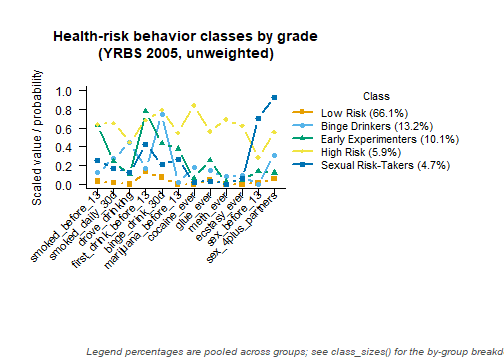
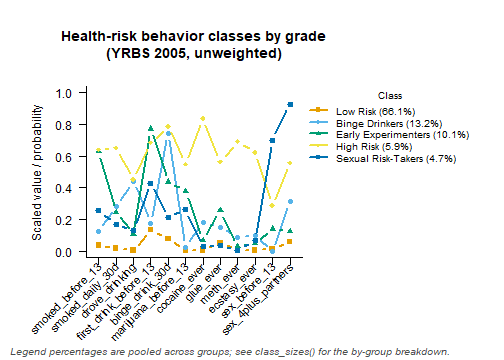
Re-knit the precomputed vignettes and the README for 0.6.0
The lta, rilta and mglca_yrbs vignettes and README.md are knitted again
from the 0.6.0 code, every knitr cache cleared. The README table gains
rows for the growth-model standard errors and Wald tests, the post-fit
tools (predict(), simulate(), merge_classes(), class separation) and the
reporting functions.

The printed numbers that move are the ones this release's changes move:
the transition-model covariate tables now read their standard errors from
the fit's observed information, which widens them, and the later-occasion
transition and prevalence rows of the covariate LTA are case-weighted. The
README's covariate intervals move in the third decimal. No estimate in
either transition vignette changes.

In rilta the wider standard errors leave the first-grade poverty effect
on stopping at early word reading without a clear sign, so the paragraph
no longer reads it as an established effect. It also now says that the
standard errors of the origin-status terms for cells nobody occupies,
printed as very large or as 0.000, carry no information, and that a
coefficient estimated alongside them should be read with care.

diff --git a/README.md b/README.md
@@ -101,6 +101,7 @@ summary(fit_cov)
 #> =========================================================
 #>              STRUCTURAL MODEL SUMMARY                    
 #> =========================================================
+#>   Best solution  : found by 20 of 20 starts
 #> 
 #> CATEGORICAL LATENT VARIABLE REGRESSION (CLASS PREDICTORS)
 #> Reference Class: 1
@@ -109,25 +110,25 @@ summary(fit_cov)
 #>                               OR         [95% CI]         P-Value
 #> 
 #> Class 2 ON
-#>   Intercept                1.179  [    0.234,     5.933]     0.841
-#>   sex.Female               2.641  [    1.104,     6.319]     0.029
-#>   age                      0.942  [    0.884,     1.003]     0.063
+#>   Intercept                1.179  [    0.236,     5.891]     0.841
+#>   sex.Female               2.641  [    1.106,     6.306]     0.029
+#>   age                      0.942  [    0.885,     1.003]     0.061
 #> 
 #> Class 3 ON
-#>   Intercept                0.315  [    0.104,     0.952]     0.041
+#>   Intercept                0.315  [    0.104,     0.949]     0.040
 #>   sex.Female               0.342  [    0.183,     0.640]    < .001
-#>   age                      1.033  [    0.997,     1.071]     0.074
+#>   age                      1.033  [    0.997,     1.071]     0.072
 #> 
 #> Class 4 ON
-#>   Intercept                0.247  [    0.078,     0.779]     0.017
-#>   sex.Female               0.655  [    0.331,     1.299]     0.226
-#>   age                      1.024  [    0.985,     1.065]     0.227
+#>   Intercept                0.247  [    0.078,     0.777]     0.017
+#>   sex.Female               0.655  [    0.331,     1.297]     0.225
+#>   age                      1.024  [    0.985,     1.064]     0.225
 #> 
 #> OMNIBUS TEST PER COVARIATE (effect across all classes)
 #> ---------------------------------------------------------
 #>                          Wald Chi2   df  P-Value
-#>   sex                       23.067    3    < .001
-#>   age                        9.646    3     0.022
+#>   sex                       23.165    3    < .001
+#>   age                        9.764    3     0.021
 #>   Note: a non-significant test beside large coefficients can be the
 #>         Hauck-Donner effect; confirm with wald_omnibus_test().
 #> =========================================================
@@ -159,6 +160,9 @@ summary(fit_cov)
 | Latent class growth analysis, growth mixture models | `fit_lcga()`, `fit_gmm()` | [`growth_mixture`](https://pdvalencia.github.io/mixtureEM/articles/growth_mixture.html) |
 | Linking two different mixture models by the three-step, e.g. early classes predicting later growth classes | `link_models()` | `?link_models` |
 | Complex survey designs (weights, strata, clusters) | every model | [`survey_lca`](https://pdvalencia.github.io/mixtureEM/articles/survey_lca.html) |
+| Growth-model standard errors and tests of equality constraints | `growth_estimates()`, `wald_test()` | [`growth_mixture`](https://pdvalencia.github.io/mixtureEM/articles/growth_mixture.html) |
+| After the fit: classifying new cases, simulating from the model, merging classes into clusters, class separation | `predict()`, `simulate()`, `merge_classes()`, `classification_diagnostics()` | `?predict.mixture_model` |
+| Writing it up: a methods paragraph, the GRoLTS checklist, measurement standard errors | `report_methods()`, `grolts_report()`, `measurement_estimates()` | [`reporting`](https://pdvalencia.github.io/mixtureEM/articles/reporting.html) |
 
 Also included: mixed measurement models (binary + continuous + count
 indicators in one model), full-information missing-data handling
